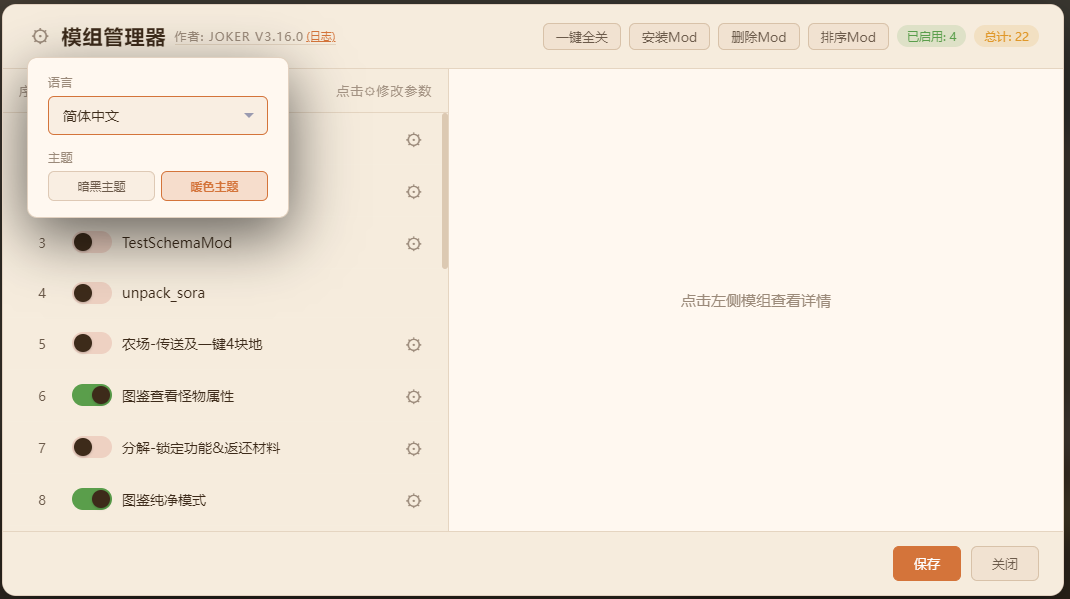
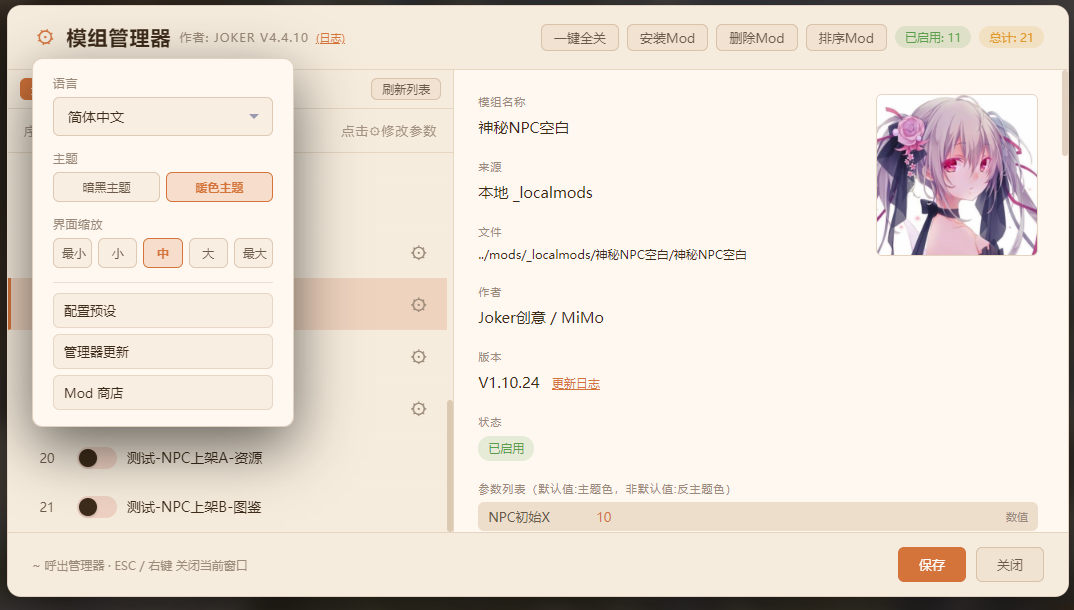
docs(readme): UI 截图更新——主界面换新，新增配置预设/管理器更新/Mod 商店/订阅管理四张

diff --git a/js/mods/docs/README-en.md b/js/mods/docs/README-en.md
@@ -71,6 +71,38 @@ Main screen
 
 <div align="center">
 
+Config presets
+
+![Config presets](img/配置预设.png)
+
+</div>
+
+<div align="center">
+
+Manager update
+
+![Manager update](img/管理器更新界面.png)
+
+</div>
+
+<div align="center">
+
+Mod store
+
+![Mod store](img/Mod商店界面.png)
+
+</div>
+
+<div align="center">
+
+Mod store — subscription management
+
+![Mod store subscription management](img/Mod商店订阅管理界面.png)
+
+</div>
+
+<div align="center">
+
 Parameter editor
 
 ![Parameter editor](img/参数界面-一般.png)

diff --git a/js/mods/docs/README.md b/js/mods/docs/README.md
@@ -69,6 +69,38 @@
 
 <div align="center">
 
+配置预设
+
+![配置预设](img/配置预设.png)
+
+</div>
+
+<div align="center">
+
+管理器更新
+
+![管理器更新](img/管理器更新界面.png)
+
+</div>
+
+<div align="center">
+
+Mod 商店
+
+![Mod 商店](img/Mod商店界面.png)
+
+</div>
+
+<div align="center">
+
+Mod 商店订阅管理
+
+![Mod 商店订阅管理](img/Mod商店订阅管理界面.png)
+
+</div>
+
+<div align="center">
+
 参数编辑界面
 
 ![软件主界面](img/参数界面-一般.png)
